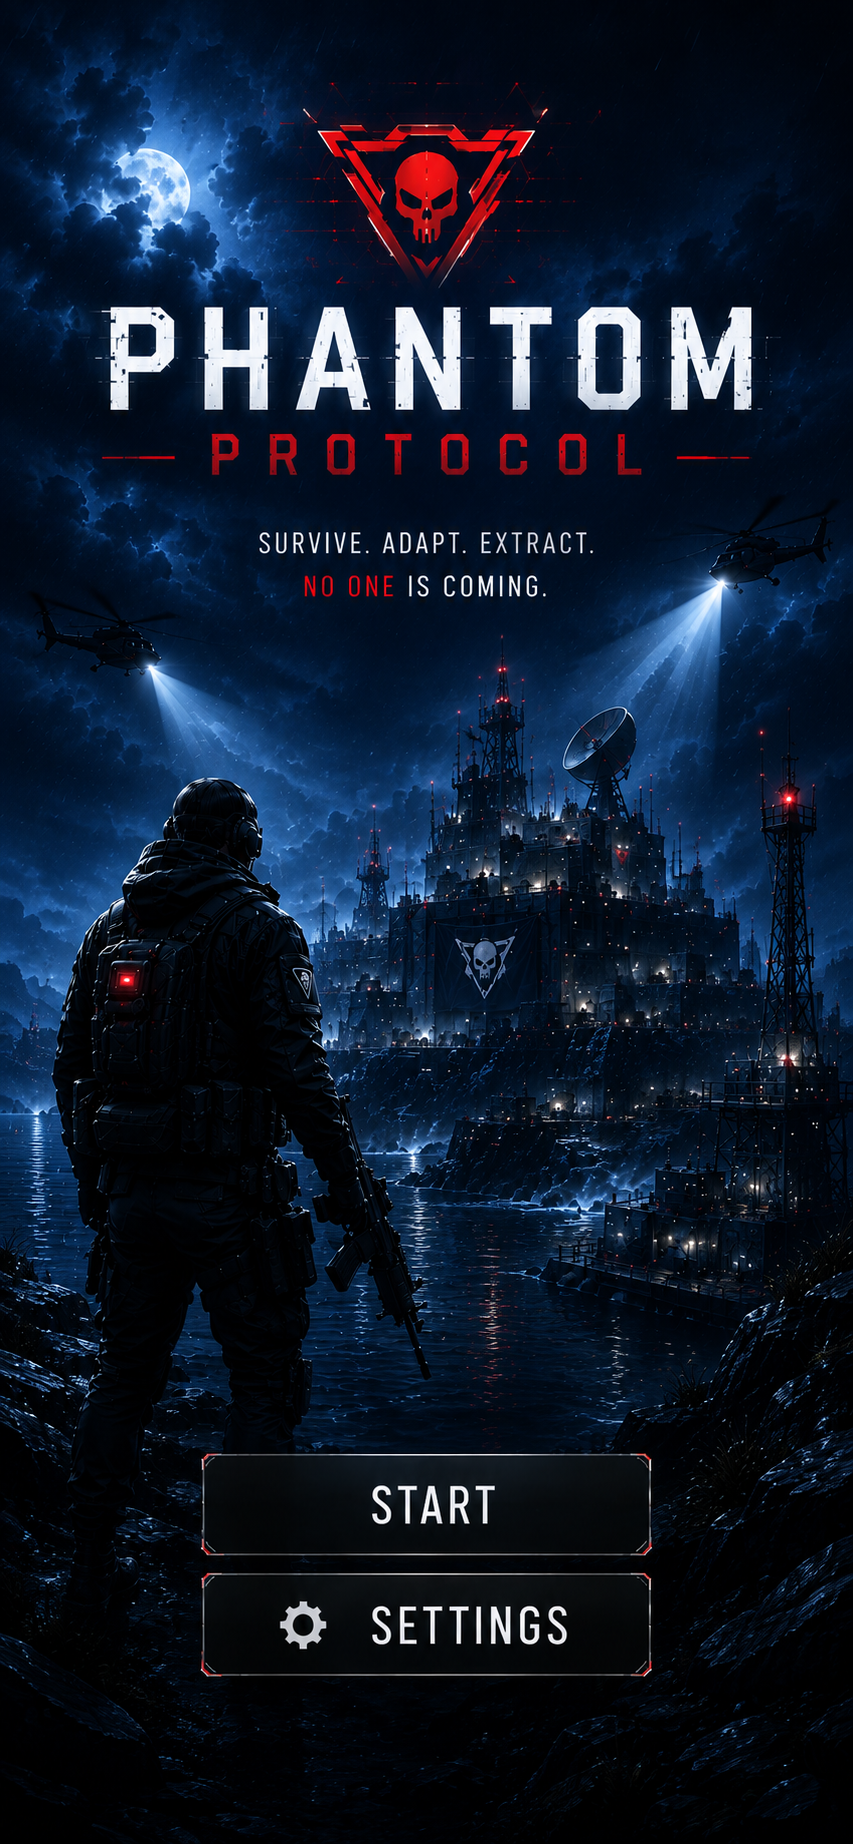
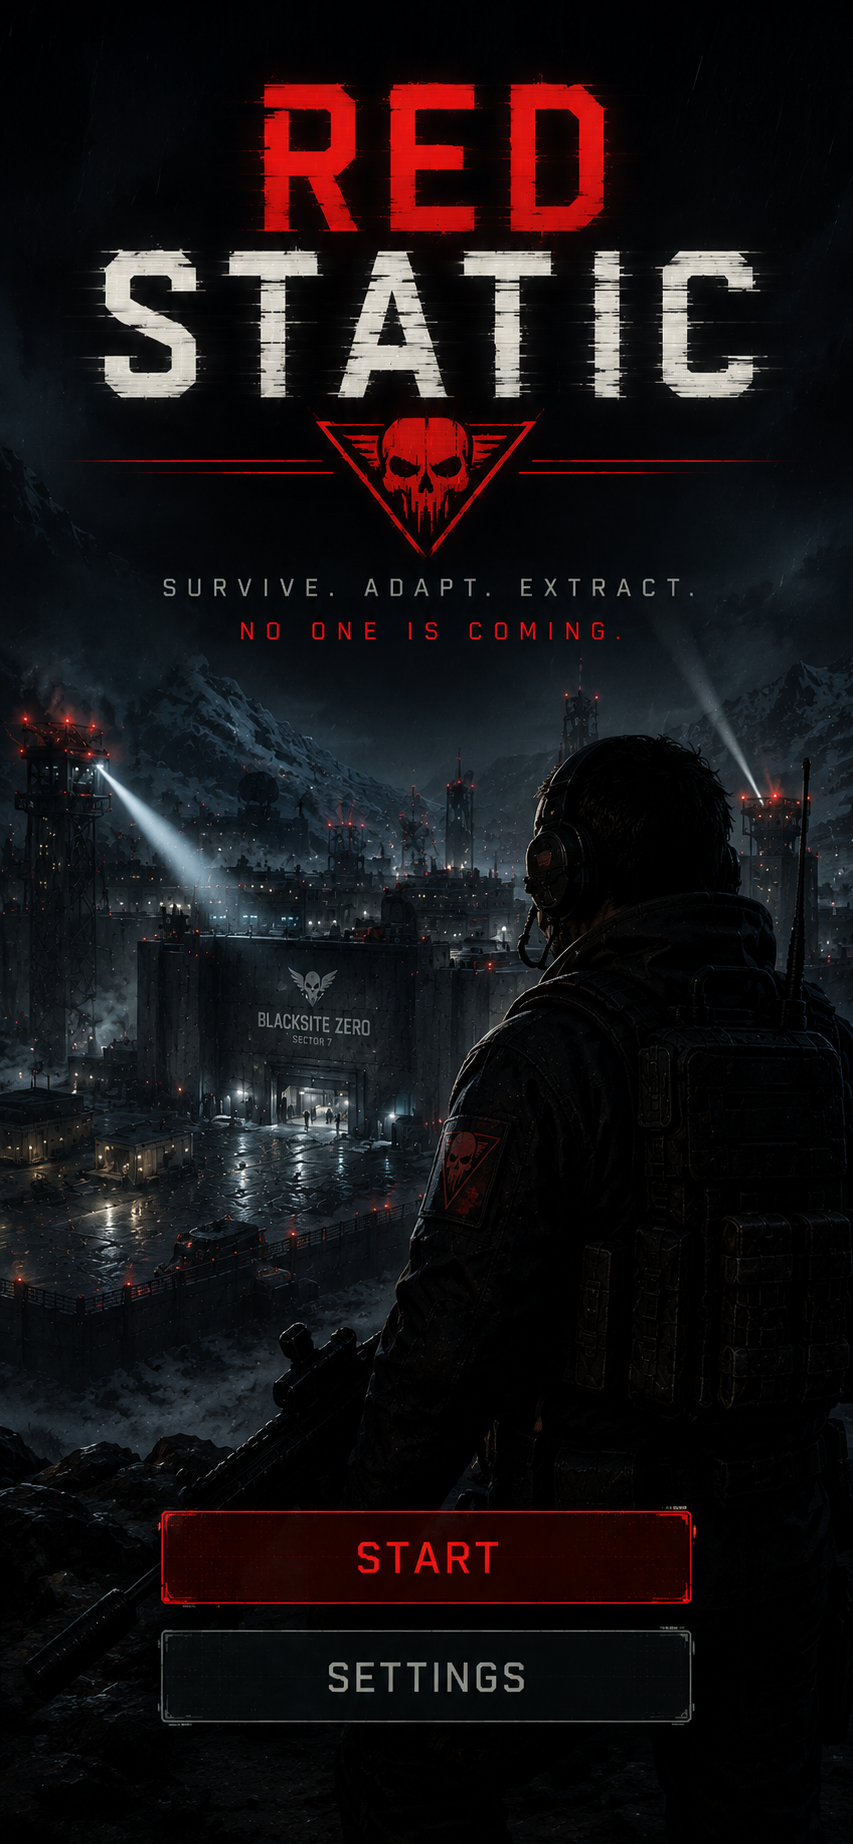
Replace the title screens with the Red Static artwork
Both frames swap in at the paths the splash already reads, so the old ones are
gone rather than left orphaned beside them: the uploads land as
title-screen-wide.png and title-screen-tall.png, and their WebP versions are
regenerated from the new sources at 136 KB and 130 KB against 1.9 MB and 1.8 MB
for the PNGs behind them.

The painted buttons moved. Both frames put START and SETTINGS wider and lower
than the artwork they replace — the wide frame by three points of width and one
of height, the tall frame by nine points of width and three of position — so
the hit areas that make them real were re-measured off the new files rather
than carried over. Checked at six viewport shapes: each resolves the frame
whose proportions suit it, fetches only the WebP, and lands its hit areas on
the painted buttons.

Claude-Session: https://claude.ai/code/session_01P9E796M4fKznFw5VkU68VJ

diff --git a/src/ui/splash.js b/src/ui/splash.js
@@ -14,12 +14,12 @@ const ART={
     ratio:1448/1086,
     base:'assets/images/title-screen-wide',
     // left / top / width / height, as percentages of the artwork.
-    buttons:{start:[37.4,76.9,25.2,6.9],settings:[37.4,84.4,25.2,6.7]}
+    buttons:{start:[34.1,75.6,29.8,6.2],settings:[34.1,83.7,29.8,6.4]}
   },
   tall:{
     ratio:853/1844,
     base:'assets/images/title-screen-tall',
-    buttons:{start:[22.1,79.1,55.9,5.4],settings:[22.1,85.4,55.9,5.4]}
+    buttons:{start:[17.9,82.1,64.6,4.9],settings:[17.9,87.8,64.6,4.9]}
   }
 };
 

diff --git a/README.md b/README.md
@@ -288,11 +288,10 @@ within and across runs as a secondary currency.
 
 ## Assets that carry the name
 
-The title screens and the operative dossier cards are authored artwork with text painted
-into the pixels, including the project's name across the top of every card. Renaming the
-project does not rename what is inside a PNG, so replacing that art is the one part of a
-rename that has to happen outside the source tree. The paths are stable and the code
-reads no text out of them, so dropping a replacement at the same path is the whole job:
+Authored artwork has text painted into the pixels, so renaming the project does not
+rename what is inside a PNG — replacing that art is the one part of a rename that has to
+happen outside the source tree. The paths are stable and the code reads no text out of
+them, so dropping a replacement at the same path is the whole job:
 
 ```
 assets/images/title-screen-wide.webp     (and .png)   desktop and landscape tablets
@@ -300,10 +299,14 @@ assets/images/title-screen-tall.webp     (and .png)   phones
 assets/images/Character_profile/<id>.webp             one dossier card per operative
 ```
 
+The title screens carry the current name. The dossier cards still print the project's
+former name across the top of each file, and are the last art outstanding.
+
 The title art's painted START and SETTINGS buttons are made real by hit areas measured as
 percentages of the artwork (`src/ui/splash.js`), so new art whose buttons sit elsewhere
-needs those percentages re-measured. Tapping anywhere on the frame also starts, so the
-screen stays usable in the meantime.
+needs those percentages re-measured — they moved when the artwork was replaced, and were
+re-measured off the new frames. Tapping anywhere on the frame also starts, so the screen
+stays usable even before that happens.
 
 ## Originality
 
